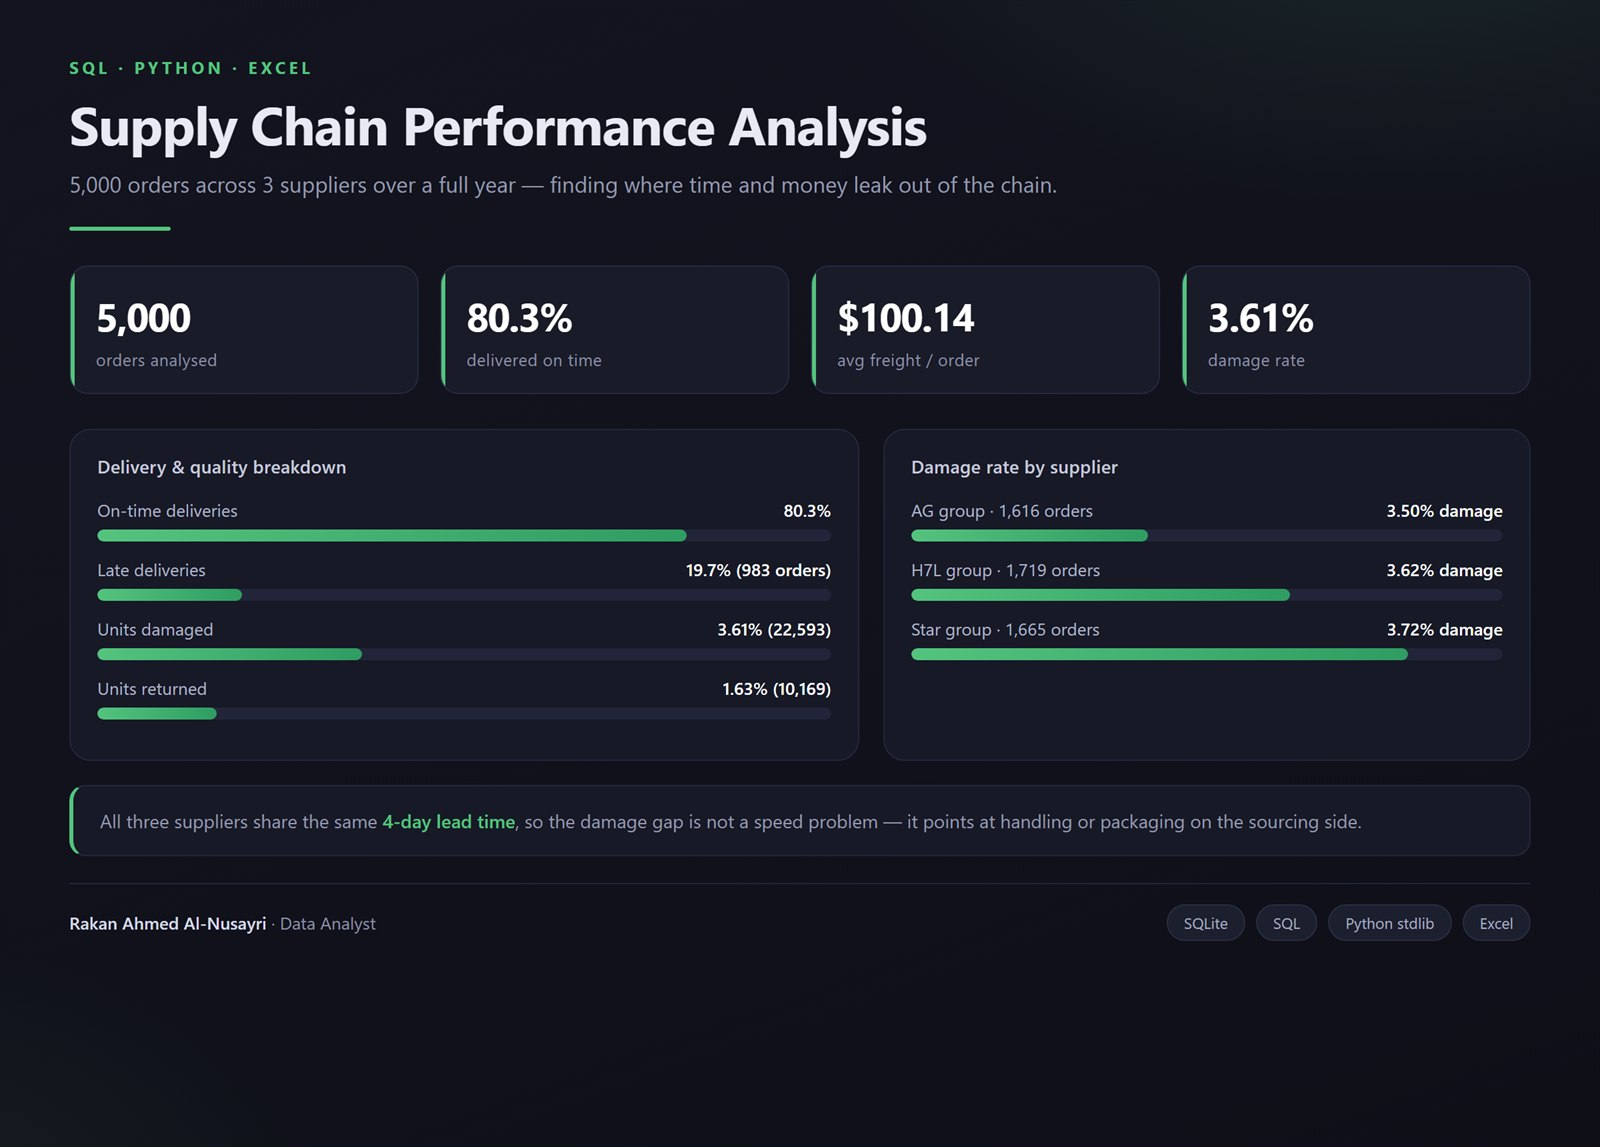
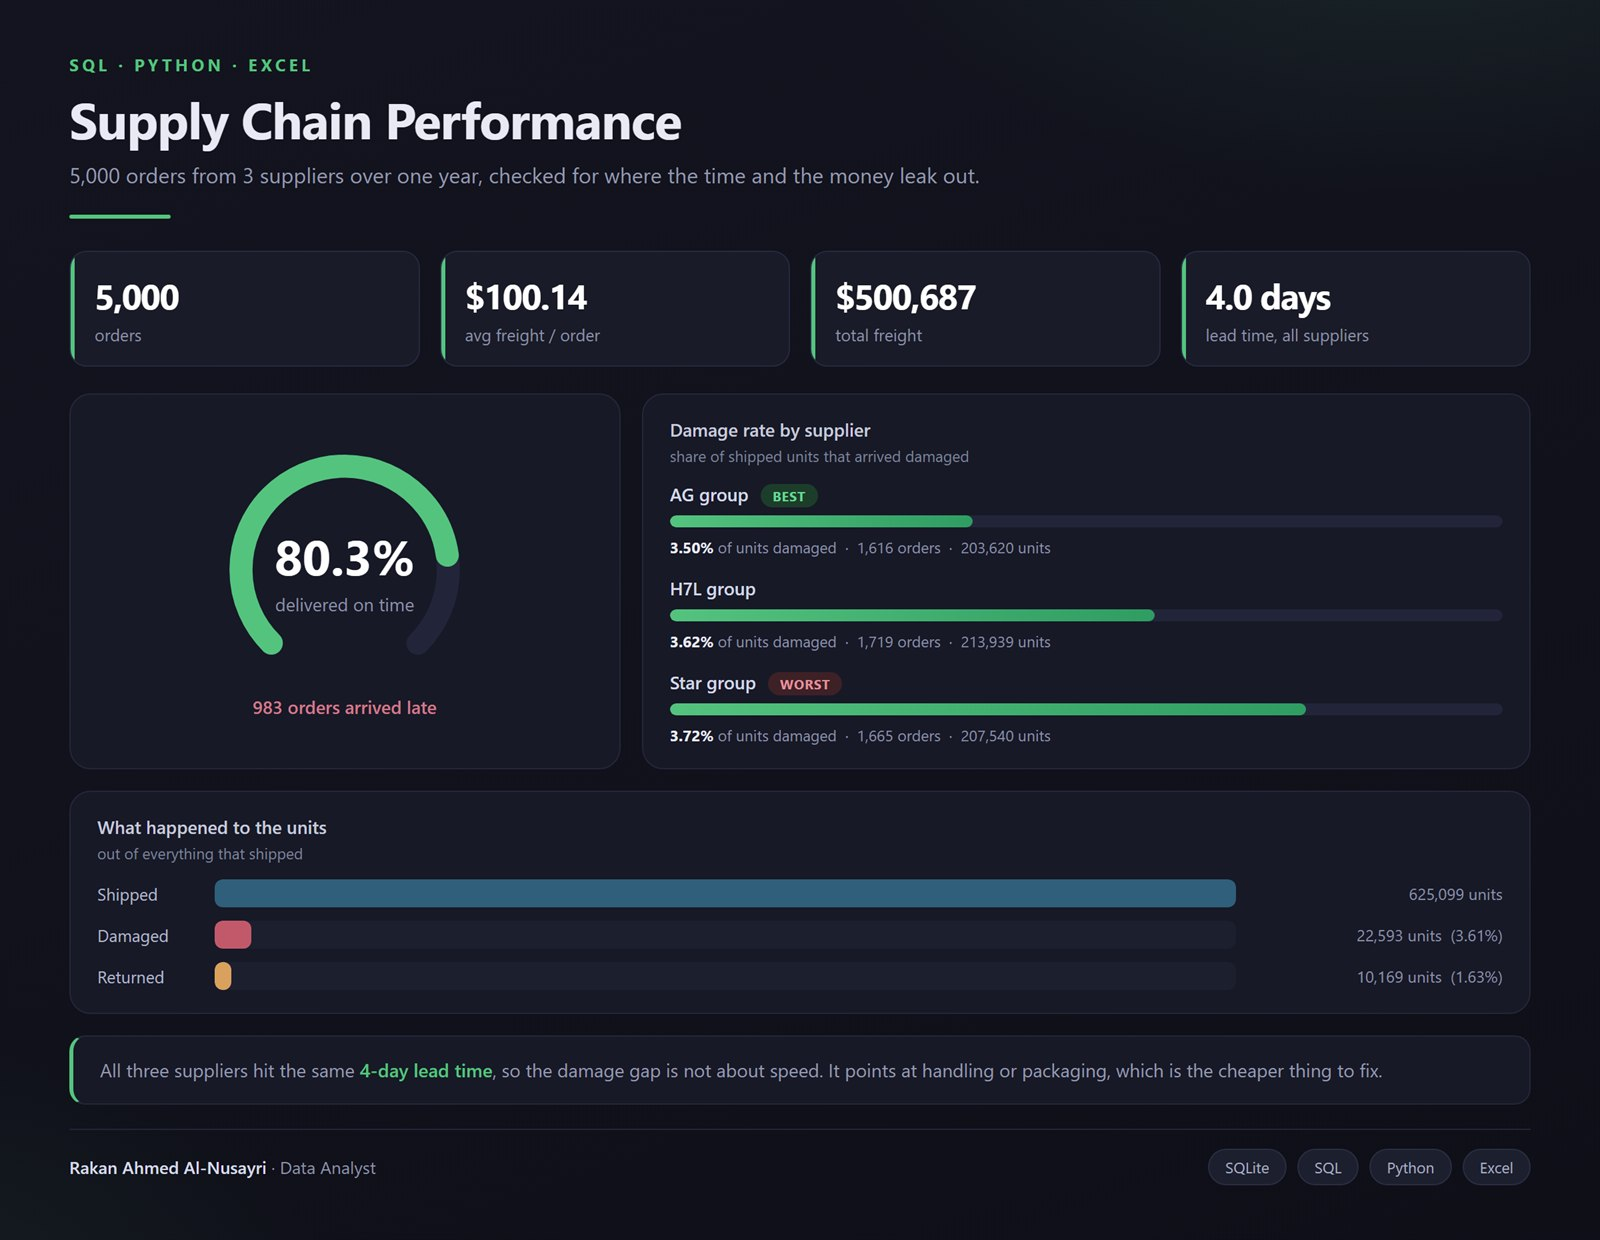
Rewrite README and rebuild the preview chart

diff --git a/README.md b/README.md
@@ -1,49 +1,58 @@
 # Supply Chain Analysis
 
-تحليل أداء سلسلة التوريد — 5,000 طلب عبر 3 موردين، لسنة كاملة.
-
 ![preview](preview.jpg)
 
-**The question:** Where in the supply chain are we losing time and money —
-late deliveries, damaged goods, or a specific supplier?
+5,000 orders, three suppliers, one year. I wanted to know where the delays and
+the losses are actually coming from, and whether any one supplier is the cause.
 
-**What I did:**
-- Cleaned and modelled 3 raw tables (order details, order status, suppliers)
-- Loaded them into SQLite with a Python ETL script (`backend/etl.py`, standard
-  library only — no installs)
-- Wrote SQL to compute on-time rate, freight cost, damage rate, and return
-  rate — overall and broken down by supplier
+## What I found
 
-**What I found:**
-| Metric | Value |
+| | |
 |---|---|
 | Orders | 5,000 |
-| On-time delivery | 80.3% (983 orders late) |
-| Average freight cost | $100.14 / order |
-| Damage rate | 3.61% of units shipped |
-| Return rate | 1.63% of units shipped |
+| On time | 80.3% — 983 arrived late |
+| Average freight | $100.14 per order |
+| Units damaged | 3.61% (22,593 units) |
+| Units returned | 1.63% (10,169 units) |
 
-By supplier, damage rate ranges from **3.5% (AG group, best)** to **3.72%
-(Star group, worst)** — a small but consistent gap across 1,600+ orders each,
-worth investigating on the sourcing side. All three suppliers average the
-same 4-day raw-material lead time, so the damage gap isn't a lead-time issue.
+One order in five is late, which is the number people notice first. The more
+useful finding is underneath it: damage rates barely move between suppliers —
+3.50% for AG group, 3.62% for H7L, 3.72% for Star. Star is the worst of the
+three, but the whole spread is a fifth of a percentage point.
 
-**Tools:** Python (stdlib `csv`/`sqlite3`), SQL, Excel (initial exploration)
+All three run the same 4-day lead time on raw material. Same speed, near-identical
+damage. That rules out "one bad supplier" and points at something shared —
+handling or packaging in transit — which is the cheaper problem to have.
 
-## Run it yourself
+## What I did
+
+Three raw tables: order details, order status, suppliers. `backend/etl.py` loads
+them into SQLite and runs the queries for on-time rate, freight, damage and
+returns, overall and per supplier. Standard library only, so it runs anywhere
+Python does.
+
+Most of the actual work was reconciling the three tables — order status and
+order details don't line up one-to-one, and the join has to be right before any
+percentage means anything.
+
+## Run it
 
 ```bash
 python backend/etl.py
 ```
 
-No dependencies — pure Python standard library.
+Prints every number in the table above.
 
 ## Files
 
 ```
-data/            the 3 raw CSVs (order details, order status, suppliers)
-backend/etl.py   loads the CSVs into SQLite and prints the KPIs above
+data/         the three raw CSVs
+backend/etl.py   loads them into SQLite and prints the results
 ```
 
+## Tools
+
+Python, SQLite, SQL, Excel
+
 ---
-Rakan Ahmed Al-Nusayri · [portfolio](https://github.com/RaKaN-DaTa) · rakanalnsyry8@gmail.com
+Rakan Ahmed Al-Nusayri — [github.com/RaKaN-DaTa](https://github.com/RaKaN-DaTa)
